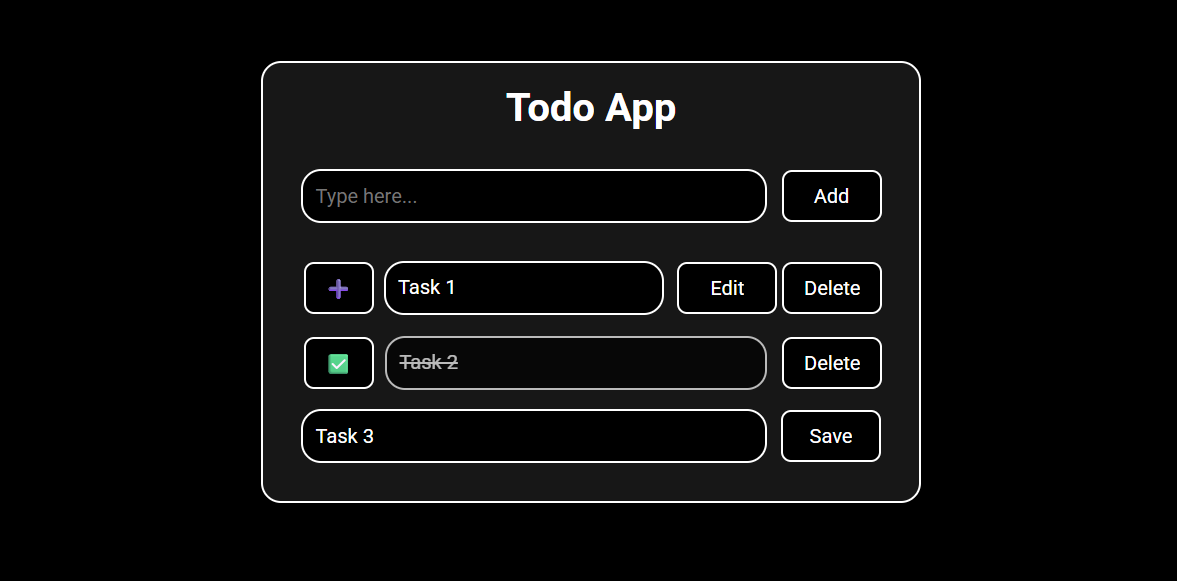
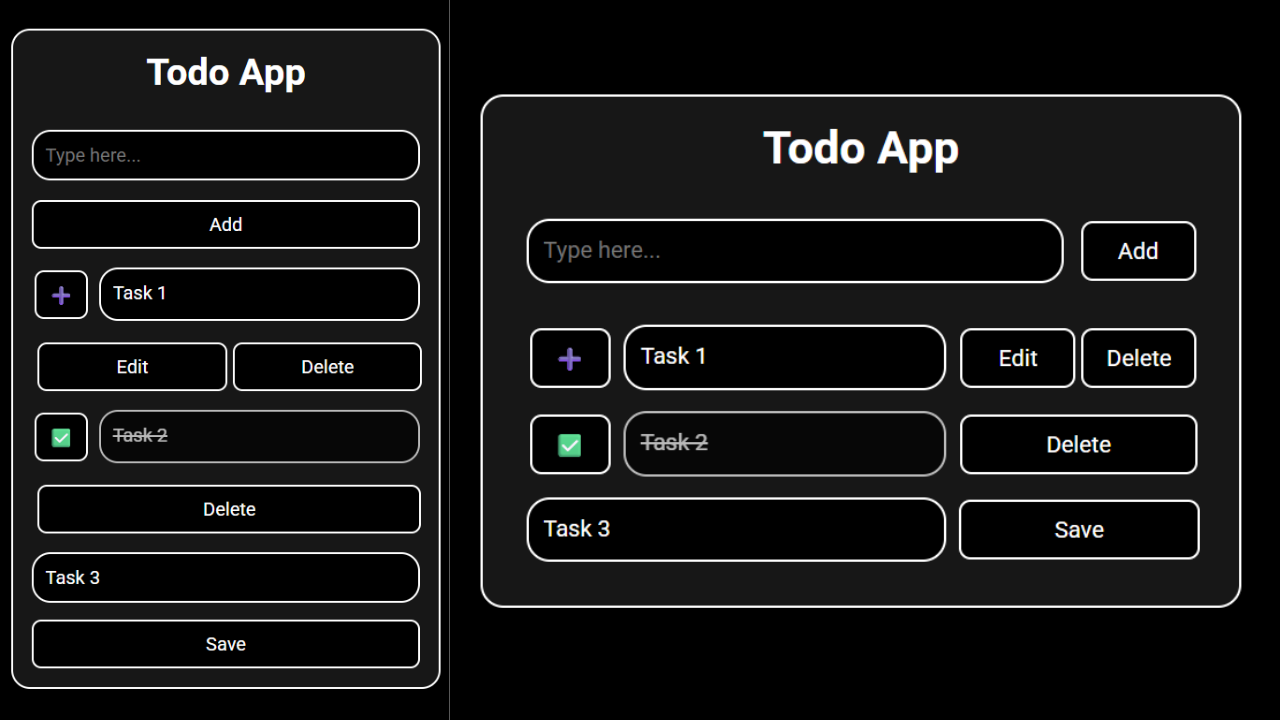
Version 3.5 - added

Changed region(s): [[0.0, 0.031, 0.9788, 0.9604]]

diff --git a/style.css b/style.css
@@ -48,7 +48,7 @@ form {
 .taskInput,
 .editInput {
     margin: 0.9em;
-    min-height: 2.7em;
+    min-height: 2.8em;
     width: 23.3em;
     padding: 10px;
     resize: none;
@@ -58,11 +58,15 @@ form {
     background-color: black;
     border: 2px solid white;
     border-radius: 1em;
-    box-sizing: border-box; 
+    box-sizing: border-box;
 }
 
 .editInput {
     margin: 0;
+    width: 18.2em;
+    position: relative;
+    right: 3px;
+
 }
 
 .addButton,
@@ -137,6 +141,9 @@ footer {
 
 .saveButton {
     margin: 0;
+    width: 167px;
+    position: relative;
+    left: 3px;
 }
 
 .buttonStorage {

diff --git a/README.md b/README.md
@@ -6,7 +6,7 @@ This project took around 5 days of work (3–4 hours daily) and involved a lot o
 
 Since this is my first complete JavaScript project, I felt it deserved its own repository.
 
-This is **Version 3** of the project.
+This is **Version 3.5** of the project.
 
 ### Live Preview
 